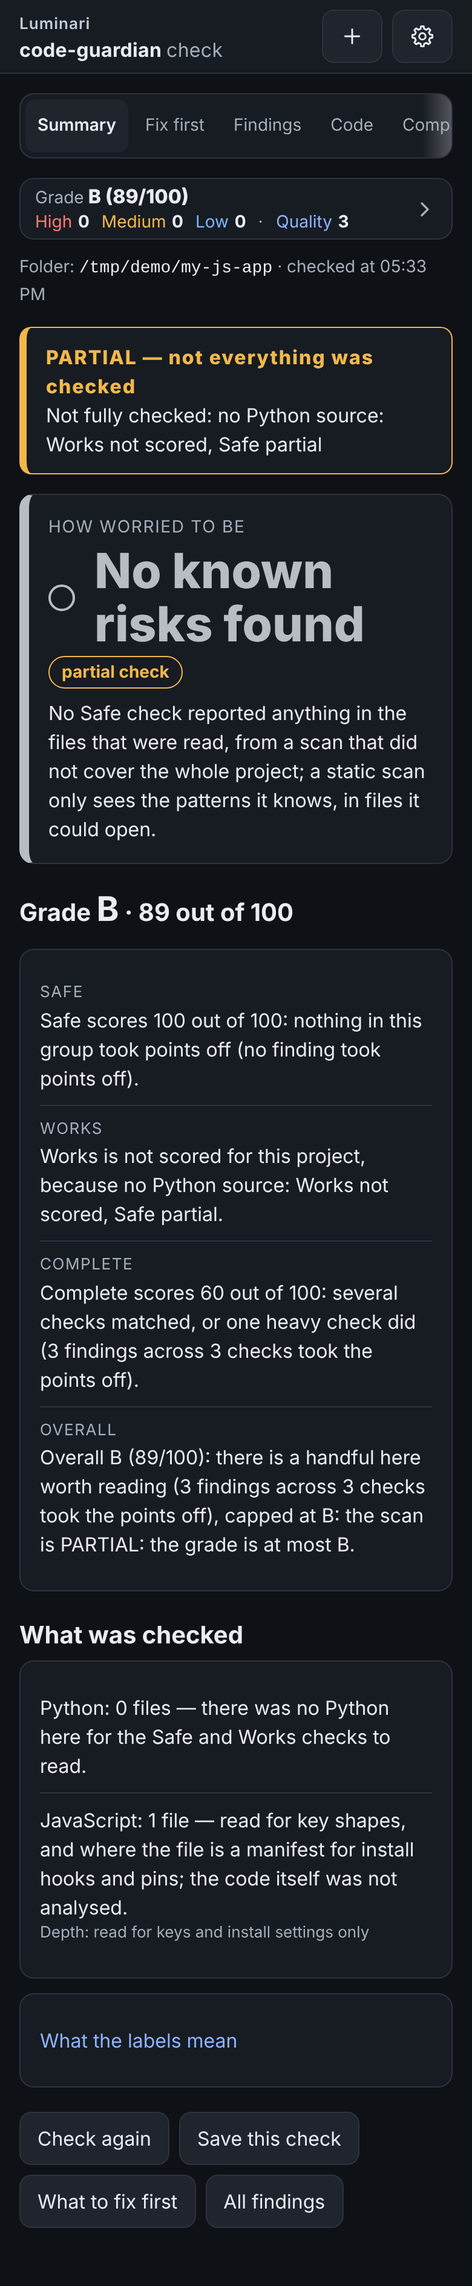
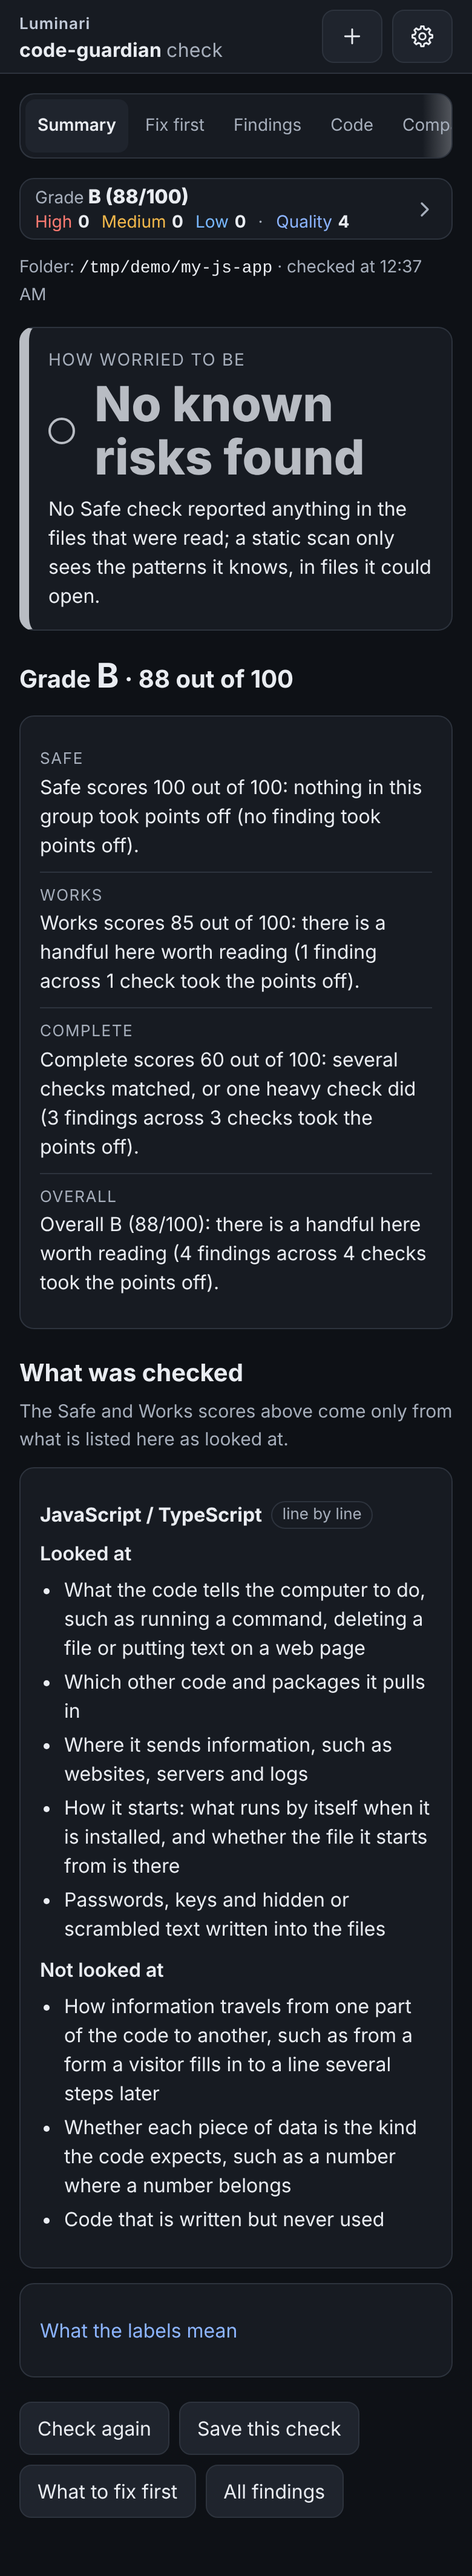
Release 0.5.0: JavaScript and TypeScript analysis (P81 S6)
Version 0.5.0 in pyproject.toml, code_guardian/__init__.py, mcp_server.py and both server.json fields; README status, quick-start, sample report, Action and pre-commit lines; CHANGELOG 0.5.0 dated 2026-10-26; action.yml status description; calibration.md P81 S4 Markdown restored; all 27 screenshots made again.

Claude-Session: https://claude.ai/code/session_01SWhWNAfZcjM74dWGjSVPfM

Changed region(s): [[0.0308, 0.0, 0.9231, 0.9682], [0.8308, 0.0, 0.9538, 0.0937]]

diff --git a/code_guardian/mcp_server.py b/code_guardian/mcp_server.py
@@ -11,7 +11,7 @@ import sys
 
 PROTOCOL = "2024-11-05"
 SERVER_NAME = "code-guardian"
-VERSION = "0.4.2"  # keep equal to code_guardian.__version__ and pyproject.toml (this module stays package-free)
+VERSION = "0.5.0"  # keep equal to code_guardian.__version__ and pyproject.toml (this module stays package-free)
 _PATH = {"type": "string", "minLength": 1,
          "description": "The project directory to read; must exist.", "examples": ["."]}
 _GOAL = {"type": "string", "minLength": 1,

diff --git a/code_guardian/__init__.py b/code_guardian/__init__.py
@@ -5,4 +5,4 @@ graph and project-file checks, plus an optional plain-English explanation from a
 score. Standard library only; the scanned code is parsed, never executed, imported or installed.
 """
 
-__version__ = "0.4.2"  # keep equal to pyproject.toml version and mcp_server.VERSION
+__version__ = "0.5.0"  # keep equal to pyproject.toml version and mcp_server.VERSION

diff --git a/calibration.md b/calibration.md
@@ -320,7 +320,7 @@ The two numbers are reported separately and never summed: **marker recall** = fo
 
 ### JavaScript / TypeScript results (P81 S4)
 
-Scanned 2026-10-25 by the overseer with PR #52 (head 6ed24c3) on the five pinned commits above: clones read only, nothing installed or run. "Files analysed" is what the walk hands to the JavaScript checks, with generated files counted apart. The Safe columns count findings in JavaScript / TypeScript files only.
+Scanned 2026-10-25 by the overseer with PR #52 (head `6ed24c3`) on the five pinned commits above: clones read only, nothing installed or run. "Files analysed" is what the walk hands to the JavaScript checks, with generated files counted apart. The Safe columns count findings in JavaScript / TypeScript files only.
 
 | repo | files analysed | generated | files with an EOF error | Safe FAIL | Safe WARN | Safe INFO | generated: FAIL / WARN / INFO | WARNs per 1,000 lines | status / grade |
 |---|---|---|---|---|---|---|---|---|---|
@@ -330,37 +330,34 @@ Scanned 2026-10-25 by the overseer with PR #52 (head 6ed24c3) on the five pinned
 | create-next-app app/ts | 4 | 1 | 0 | 0 | 0 | 4 | 0 / 0 / 0 | 0.00 (120 lines) | PARTIAL (the template folder has no package.json) / B |
 | juice-shop | 373 | 1 | 0 | 1 | 42 | 379 | 0 / 0 / 0 | 1.26 (33,209 lines) | PARTIAL (2 Python test files do not parse) / F |
 
-No false Safe FAIL on express, fastify or the two templates. The only FAIL among them is express examples/auth/index.js:50 (secret.key): hash({ password: 'foobar' }, ...) in an example app. It is a hard-coded password literal, which is what the rule claims, and the secret scan (unchanged by P81) reported it before 0.5.0 too. fastify's eight rejectUnauthorized: false lines are all in test/ files, and the existing test-code rule reports them at INFO. Juice Shop's FAIL, lib/insecurity.ts:21, is its deliberately committed private key.
+**No false Safe FAIL on express, fastify or the two templates.** The only FAIL among them is express `examples/auth/index.js:50` (`secret.key`): `hash({ password: 'foobar' }, ...)` in an example app. It is a hard-coded password literal, which is what the rule claims, and the secret scan (unchanged by P81) reported it before 0.5.0 too. fastify's eight `rejectUnauthorized: false` lines are all in `test/` files, and the existing test-code rule reports them at INFO. Juice Shop's FAIL, `lib/insecurity.ts:21`, is its deliberately committed private key.
 
-20 WARNs judged by hand. This is a random sample (seed 81) of the 43 Safe WARNs in JavaScript / TypeScript files across the five repos. False positives: 0.
+**20 WARNs judged by hand.** This is a random sample (seed 81) of the 43 Safe WARNs in JavaScript / TypeScript files across the five repos. **False positives: 0.**
 
 | # | repo | finding | code | verdict |
 |---|---|---|---|---|
-| 1 | juice-shop | frontend/src/hacking-instructor/index.ts:126 | dom.html_sink | true: a non-literal value reaches an HTML sink (the codefixes files are the challenge snippets) |
-| 2 | juice-shop | data/static/codefixes/restfulXssChallenge_3.ts:48 | dom.html_sink | true: a non-literal value reaches an HTML sink (the codefixes files are the challenge snippets) |
-| 3 | juice-shop | data/static/codefixes/redirectCryptoCurrencyChallenge_2.ts:6 | net.egress | true: a plain-http URL to a public host |
-| 4 | juice-shop | lib/insecurity.ts:130 | net.egress | true: a plain-http URL to a public host |
-| 5 | juice-shop | lib/insecurity.ts:128 | net.egress | true: a plain-http URL to a public host |
-| 6 | juice-shop | data/static/codefixes/redirectCryptoCurrencyChallenge_3_correct.ts:4 | net.egress | true: a plain-http URL to a public host |
-| 7 | juice-shop | data/static/codefixes/restfulXssChallenge_4.ts:48 | dom.html_sink | true: a non-literal value reaches an HTML sink (the codefixes files are the challenge snippets) |
-| 8 | juice-shop | data/datacreator.ts:86 | net.egress | true: a plain-http URL to a public host |
-| 9 | juice-shop | data/static/codefixes/redirectChallenge_2.ts:9 | net.egress | true: a plain-http URL to a public host |
-| 10 | juice-shop | data/static/codefixes/redirectChallenge_2.ts:7 | net.egress | true: a plain-http URL to a public host |
-| 11 | juice-shop | data/static/codefixes/redirectCryptoCurrencyChallenge_4.ts:8 | net.egress | true: a plain-http URL to a public host |
-| 12 | fastify | integration/server.js:7 | net.bind_all | true: binds "::" (an integration-test server) |
-| 13 | juice-shop | scripts/package.mjs:20 | exec.shell | true: execSync runs a shell command (a release script) |
-| 14 | juice-shop | routes/b2bOrder.ts:23 | exec.dynamic | true: runs a string as code (one of the planted RCE routes) |
-| 15 | juice-shop | lib/insecurity.ts:127 | net.egress | true: a plain-http URL to a public host |
-| 16 | juice-shop | data/static/codefixes/redirectCryptoCurrencyChallenge_3_correct.ts:3 | net.egress | true: a plain-http URL to a public host |
-| 17 | juice-shop | data/static/codefixes/redirectChallenge_3.ts:6 | net.egress | true: a plain-http URL to a public host |
-| 18 | juice-shop | data/static/codefixes/redirectChallenge_1.ts:9 | net.egress | true: a plain-http URL to a public host |
-| 19 | juice-shop | lib/xml.ts:12 | exec.dynamic | true: runs a string as code (one of the planted RCE routes) |
-| 20 | juice-shop | routes/fileUpload.ts:114 | exec.dynamic | true: runs a string as code (one of the planted RCE routes) |
+| 1 | juice-shop | `frontend/src/hacking-instructor/index.ts:126` | dom.html_sink | true: a non-literal value reaches an HTML sink (the codefixes files are the challenge snippets) |
+| 2 | juice-shop | `data/static/codefixes/restfulXssChallenge_3.ts:48` | dom.html_sink | true: a non-literal value reaches an HTML sink (the codefixes files are the challenge snippets) |
+| 3 | juice-shop | `data/static/codefixes/redirectCryptoCurrencyChallenge_2.ts:6` | net.egress | true: a plain-http URL to a public host |
+| 4 | juice-shop | `lib/insecurity.ts:130` | net.egress | true: a plain-http URL to a public host |
+| 5 | juice-shop | `lib/insecurity.ts:128` | net.egress | true: a plain-http URL to a public host |
+| 6 | juice-shop | `data/static/codefixes/redirectCryptoCurrencyChallenge_3_correct.ts:4` | net.egress | true: a plain-http URL to a public host |
+| 7 | juice-shop | `data/static/codefixes/restfulXssChallenge_4.ts:48` | dom.html_sink | true: a non-literal value reaches an HTML sink (the codefixes files are the challenge snippets) |
+| 8 | juice-shop | `data/datacreator.ts:86` | net.egress | true: a plain-http URL to a public host |
+| 9 | juice-shop | `data/static/codefixes/redirectChallenge_2.ts:9` | net.egress | true: a plain-http URL to a public host |
+| 10 | juice-shop | `data/static/codefixes/redirectChallenge_2.ts:7` | net.egress | true: a plain-http URL to a public host |
+| 11 | juice-shop | `data/static/codefixes/redirectCryptoCurrencyChallenge_4.ts:8` | net.egress | true: a plain-http URL to a public host |
+| 12 | fastify | `integration/server.js:7` | net.bind_all | true: binds "::" (an integration-test server) |
+| 13 | juice-shop | `scripts/package.mjs:20` | exec.shell | true: execSync runs a shell command (a release script) |
+| 14 | juice-shop | `routes/b2bOrder.ts:23` | exec.dynamic | true: runs a string as code (one of the planted RCE routes) |
+| 15 | juice-shop | `lib/insecurity.ts:127` | net.egress | true: a plain-http URL to a public host |
+| 16 | juice-shop | `data/static/codefixes/redirectCryptoCurrencyChallenge_3_correct.ts:3` | net.egress | true: a plain-http URL to a public host |
+| 17 | juice-shop | `data/static/codefixes/redirectChallenge_3.ts:6` | net.egress | true: a plain-http URL to a public host |
+| 18 | juice-shop | `data/static/codefixes/redirectChallenge_1.ts:9` | net.egress | true: a plain-http URL to a public host |
+| 19 | juice-shop | `lib/xml.ts:12` | exec.dynamic | true: runs a string as code (one of the planted RCE routes) |
+| 20 | juice-shop | `routes/fileUpload.ts:114` | exec.dynamic | true: runs a string as code (one of the planted RCE routes) |
 
-Juice Shop, two numbers, never summed.
-
-Lexer-loss: 0 of 7. Every in-category grep hit in a file the scan analyses is found: routes/captcha.ts:22, routes/b2bOrder.ts:23, routes/userProfile.ts:65, routes/fileUpload.ts:114, lib/xml.ts:12, lib/xml.ts:38 (exec.dynamic WARN) and frontend/src/hacking-instructor/index.ts:126 (dom.html_sink WARN).
-
-Marker recall: 0 of 2 at scan level, 2 of 2 when the files are lexed directly. Both marked vuln-lines, frontend/src/app/search-result/search-result.component.ts:113 and :146, are in frontend/src/app/. The walk leaves that folder out: the repo's .gitignore has app/ and then !frontend/src/app, and code-guardian's .gitignore support ignores ! negation (README, Limitations). Lexed directly (the S2 run), both are dom.html_sink WARN. With a sample of 2, this shows only whether the Angular sanitizer bypass is caught; it says nothing about recall in general.
-
-The other 10 in-category grep hits are not scanned, for the same reason: frontend/src/assets/private/three.js:11375 (!frontend/src/assets/), score-board.component.ts:83, administration.component.ts:74 and :92, search-result.component.ts:113 and :146, data-export.component.ts:58, track-result.component.ts:49, last-login-ip.component.ts:40 and about.component.ts:120 (all under frontend/src/app/). This is a walk limit, not a lexer loss, and it is carried as a pickup item: honour ! negation in .gitignore (or take the tracked-file list from git when a .git folder is present), so committed code that a negated pattern brings back is analysed.
+**Juice Shop, two numbers, never summed.**
+- **Lexer-loss: 0 of 7.** Every in-category grep hit in a file the scan analyses is found: `routes/captcha.ts:22`, `routes/b2bOrder.ts:23`, `routes/userProfile.ts:65`, `routes/fileUpload.ts:114`, `lib/xml.ts:12`, `lib/xml.ts:38` (`exec.dynamic` WARN) and `frontend/src/hacking-instructor/index.ts:126` (`dom.html_sink` WARN).
+- **Marker recall: 0 of 2 at scan level, 2 of 2 when the files are lexed directly.** Both marked `vuln-line`s, `frontend/src/app/search-result/search-result.component.ts:113` and `:146`, are in `frontend/src/app/`. The walk leaves that folder out: the repo's `.gitignore` has `app/` and then `!frontend/src/app`, and code-guardian's `.gitignore` support ignores `!` negation (README, Limitations). Lexed directly (the S2 run), both are `dom.html_sink` WARN. With a sample of 2, this shows only whether the Angular sanitizer bypass is caught; it says nothing about recall in general.
+- **The other 10 in-category grep hits are not scanned, for the same reason:** `frontend/src/assets/private/three.js:11375` (`!frontend/src/assets/`), `score-board.component.ts:83`, `administration.component.ts:74` and `:92`, `search-result.component.ts:113` and `:146`, `data-export.component.ts:58`, `track-result.component.ts:49`, `last-login-ip.component.ts:40` and `about.component.ts:120` (all under `frontend/src/app/`). This is a walk limit, not a lexer loss, and it is carried as a pickup item: honour `!` negation in `.gitignore` (or take the tracked-file list from git when a `.git` folder is present), so committed code that a negated pattern brings back is analysed.

diff --git a/README.md b/README.md
@@ -24,7 +24,7 @@ from deterministic checks with fixed weights: same repo, same version, same outp
 
 It parses the code (`ast` for Python; a small lexer for JavaScript and TypeScript; `json`, `tomllib` and
 `configparser` for manifests; regular expressions for secrets) and never executes, imports or installs it. A scan makes
-no network calls. Python 3.11+, standard library only. Status: **0.4.2 is the current release.**
+no network calls. Python 3.11+, standard library only. Status: **0.5.0 is the current release.**
 
 **Who it is for.** Anyone running local AI models, or code an AI assistant wrote, on their own machine: you cloned a
 repository, or an assistant just rewrote a module, and you want a verdict before you run it. It is the fourth of four
@@ -112,7 +112,7 @@ code-guardian scan /home/user/project              # the grade, every finding wi
 code-guardian plan /home/user/project --top 3      # the three fixes worth the most Overall points
 ```
 
-Success looks like a first line `code-guardian 0.4.2  scan of <name>`, then a `status: COMPLETE` line and four score
+Success looks like a first line `code-guardian 0.5.0  scan of <name>`, then a `status: COMPLETE` line and four score
 lines. On a one-file project it takes well under a second. To give the same tools to an AI client, add the MCP server
 (see [MCP server](#mcp-server) for Claude Desktop and other clients):
 
@@ -230,7 +230,7 @@ code-guardian scan risky_repo
 Real output:
 
 ```
-code-guardian 0.4.2  scan of risky_repo
+code-guardian 0.5.0  scan of risky_repo
 files: 7 Python, 3 manifests, 1 other (0 skipped, 0 excluded by the goal file)
 status: COMPLETE
 coverage: 7 Python analysed; 1 JavaScript/TypeScript analysed (token level)
@@ -790,7 +790,7 @@ jobs:
     runs-on: ubuntu-latest
     steps:
       - uses: actions/checkout@v4
-      - uses: LuminariSoftwares/code-guardian@v0.4.2
+      - uses: LuminariSoftwares/code-guardian@v0.5.0
         with:
           path: .
           fail-on: FAIL        # or WARN
@@ -806,7 +806,7 @@ environment variables, never by text substitution.
 ```yaml
 repos:
   - repo: https://github.com/LuminariSoftwares/code-guardian
-    rev: v0.4.2
+    rev: v0.5.0
     hooks:
       - id: code-guardian
         # args: [--fail-on, WARN]

diff --git a/CHANGELOG.md b/CHANGELOG.md
@@ -1,6 +1,6 @@
 # Changelog
 
-## code-guardian-mcp 0.5.0 (unreleased)
+## code-guardian-mcp 0.5.0 (2026-10-26)
 
 JavaScript and TypeScript are now analysed, not only secret-scanned. Before, an `eval` of request input in a `.js` file went unseen and a JavaScript-only repo came out PARTIAL with Works not scored; now the Safe and Works checks run on those files at token level, and a JavaScript-only repo is COMPLETE with every score. Python reports are unchanged.
 
